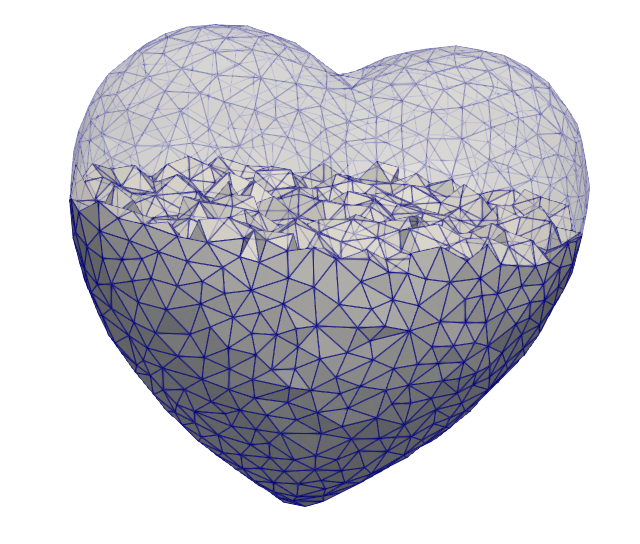
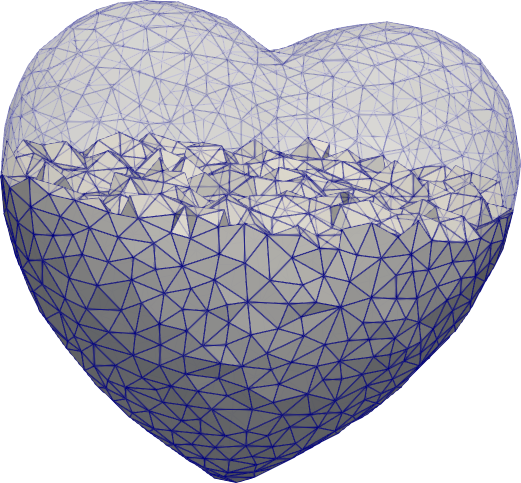
Adjust figure spacing.

diff --git a/9.4/paper.tex b/9.4/paper.tex
@@ -793,18 +793,19 @@ A possible workflow is the following:
     \centering
     \begin{subfigure}[b]{0.3\textwidth}
       \centering
-      \includegraphics[width=.2\paperwidth]{png/heart_implicit.png}
+      \includegraphics[width=\textwidth]{png/heart_implicit.png}
       \caption{\label{fig:heart_tria}}
     \end{subfigure}
+    \hfill
     \begin{subfigure}[b]{0.3\textwidth}
       \centering
-      \includegraphics[height=.14\paperheight]{png/intersection_cube_sphere_mesh.png}
+      \includegraphics[width=\textwidth]{png/intersection_cube_sphere_mesh.png}
       \caption{\label{fig:corefinement}}
     \end{subfigure}
-    \qquad
-    \begin{subfigure}[b]{0.3\textwidth}
+    \hfill
+    \begin{subfigure}[b]{0.37\textwidth}
       \centering
-      \includegraphics[height=.14\paperheight]{png/cube_sphere_remeshed.png}
+      \includegraphics[width=\textwidth]{png/cube_sphere_remeshed.png}
       \caption{ \label{fig:corefinement_remeshed}}
     \end{subfigure}
     \caption{\it (a) \texttt{Triangulation<3>} of a heart surface starting from an implicit function $f$. (b) Union of the unit cube with an hyper ball. Notice how the corefinement around the intersection gives badly shaped elements. (c) The remeshed \dealii{} Triangulation.}
